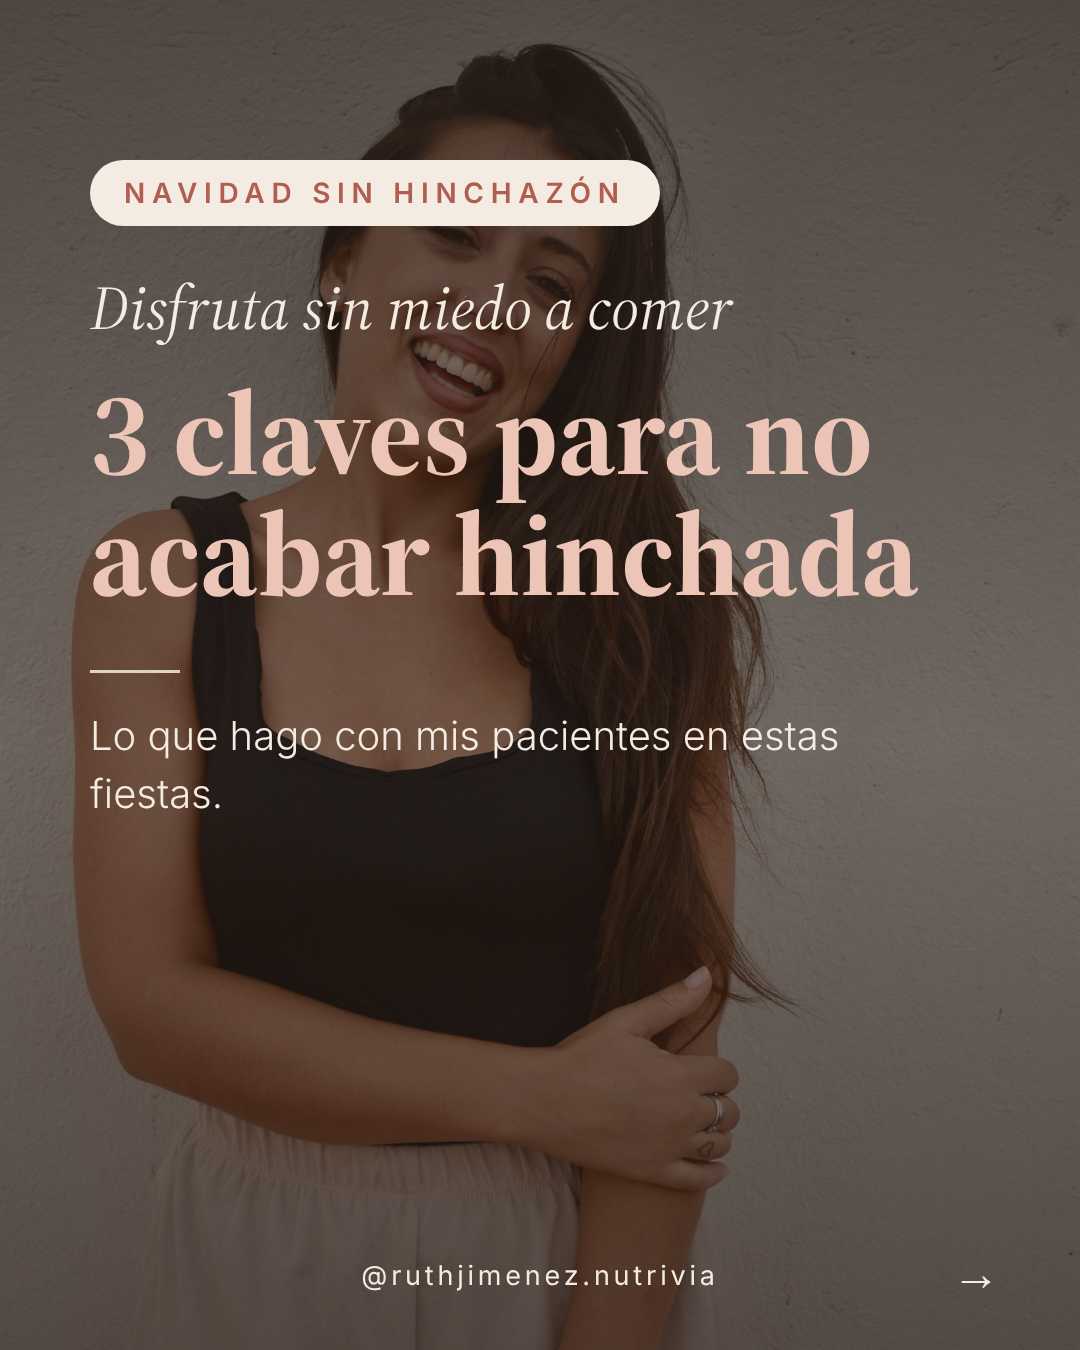
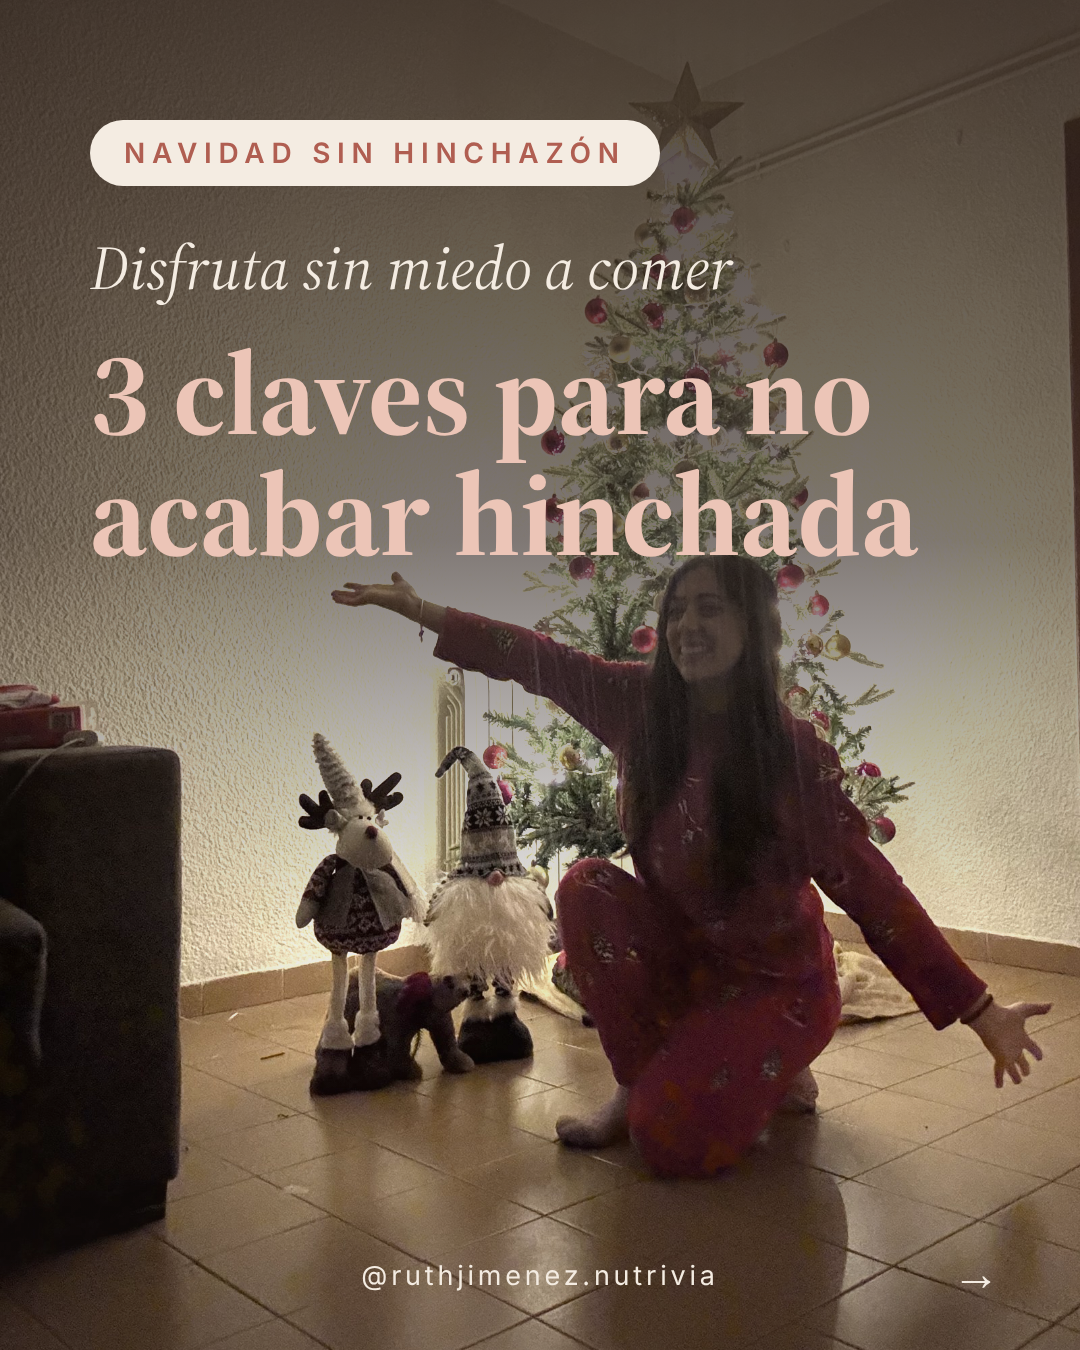
Portadas de los carruseles con fotos nuevas de Ruth (incluidas las de Navidad)
Claude-Session: https://claude.ai/code/session_01BJhanGQbqMstPra7Cbo7cp

diff --git a/diciembre/generar-carruseles.js b/diciembre/generar-carruseles.js
@@ -19,7 +19,7 @@ const carruseles = [
   {
     carpeta: '2026-11-27-lo-sano-que-te-hincha',
     slides: [
-      { tipo: 'portada', foto: 'ruth-sonrisa.jpg', pos: 'center 18%', pill: 'Hinchazón y SIBO', pre: 'Lo hacías por cuidarte…', titulo: 'Lo «sano» que te está hinchando', sub: 'No todo lo sano le sienta bien a tu tripa.' },
+      { tipo: 'portada', foto: 'IMG_5316.jpg', pos: 'center 20%', abajo: true, pill: 'Hinchazón y SIBO', pre: 'Lo hacías por cuidarte…', titulo: 'Lo «sano» que te está hinchando', sub: 'No todo lo sano le sienta bien a tu tripa.' },
       { tipo: 'tarjetas', kicker: '¿Te suena?', titulo: 'Batido verde, ensalada gigante, *kéfir…*', icono: '→', tarjetas: [
         ['Comes «sano» cada día', 'Verdura, fruta, fermentados… todo lo que se supone que hay que comer.'],
         ['Haces todo lo «correcto»', 'Has leído, te has informado y lo aplicas.'],
@@ -47,7 +47,7 @@ const carruseles = [
   {
     carpeta: '2026-12-01-sibo-5-senales',
     slides: [
-      { tipo: 'portada', foto: 'ruth-movil.jpg', pos: 'center 25%', pill: 'SIBO', pre: 'No es solo hinchazón', titulo: '5 señales que no debes normalizar', sub: '¿Cuántas te pasan a ti?' },
+      { tipo: 'portada', foto: 'IMG_6160.jpg', pos: 'center 20%', abajo: true, pill: 'SIBO', pre: 'No es solo hinchazón', titulo: '5 señales que no debes normalizar', sub: '¿Cuántas te pasan a ti?' },
       { tipo: 'tarjetas', kicker: 'Señales del SIBO', titulo: 'Lo que tu tripa *te está diciendo*', icono: 'num', tarjetas: [
         ['Te hinchas a lo largo del día', 'Por la mañana bien; por la tarde, el pantalón ya aprieta.'],
         ['Gases y eructos frecuentes', 'Aunque comas poco y despacio.'],
@@ -69,7 +69,7 @@ const carruseles = [
   {
     carpeta: '2026-12-05-3-claves-navidad',
     slides: [
-      { tipo: 'portada', foto: 'DSC_0454.jpg', pos: 'center 15%', pill: 'Navidad sin hinchazón', pre: 'Disfruta sin miedo a comer', titulo: '3 claves para no acabar hinchada', sub: 'Lo que hago con mis pacientes en estas fiestas.' },
+      { tipo: 'portada', foto: 'IMG_9678.jpg', pos: 'center 75%', arriba: true, pill: 'Navidad sin hinchazón', pre: 'Disfruta sin miedo a comer', titulo: '3 claves para no acabar hinchada', sub: '' },
       { tipo: 'tarjetas', kicker: 'Esto es para ti', titulo: '¿Ya piensas en *cómo vas a acabar*?', icono: '→', tarjetas: [
         ['Hinchada después de la cena', 'Desabrochándote el botón a escondidas.'],
         ['Con gases y sin poder moverte', 'Mientras los demás siguen en la sobremesa.'],
@@ -87,7 +87,7 @@ const carruseles = [
   {
     carpeta: '2026-12-08-menu-navidad',
     slides: [
-      { tipo: 'portada', foto: 'ruth-sobre-mi.jpg', pos: 'center 30%', pill: 'Navidad sin hinchazón', pre: 'Abres la carta y no sabes qué pedir', titulo: 'Qué pedir en el menú de Navidad', sub: 'Si te hinchas con facilidad.' },
+      { tipo: 'portada', foto: 'IMG_9790.jpg', pos: 'center 25%', abajo: true, pill: 'Navidad sin hinchazón', pre: 'Abres la carta y no sabes qué pedir', titulo: 'Qué pedir en el menú de Navidad', sub: 'Si te hinchas con facilidad.' },
       { tipo: 'tarjetas', kicker: 'Antes de empezar', titulo: 'No es una lista de *prohibidos*', icono: '→', tarjetas: [
         ['Es una guía para elegir', 'Con más tranquilidad y menos miedo.'],
         ['Cada persona tolera cosas distintas', 'Por eso un plan tiene que ser personal.'],
@@ -116,12 +116,16 @@ em { font-family: 'Source Serif 4', serif; font-style: italic; font-weight: 400;
 /* portada */
 .portada img { position: absolute; inset: 0; width: 100%; height: 100%; object-fit: cover; }
 .portada .velo { position: absolute; inset: 0; background: linear-gradient(180deg, rgba(42,30,24,.72) 0%, rgba(42,30,24,.55) 55%, rgba(42,30,24,.70) 100%); }
-.portada .txt { position: absolute; left: 90px; right: 90px; top: 160px; color: #f4ece2; }
+.portada .txt { position: absolute; left: 90px; right: 90px; top: 120px; color: #f4ece2; }
 .portada .pre { font-family: 'Source Serif 4', serif; font-style: italic; font-size: 62px; margin-top: 46px; line-height: 1.15; }
 .portada h1 { font-family: 'Source Serif 4', serif; font-weight: 700; font-size: 118px; line-height: 1.02; color: #ecc5b7; margin-top: 30px; }
 .portada .raya { width: 90px; height: 3px; background: #f4ece2; margin: 56px 0 34px; opacity: .85; }
 .portada .sub { font-family: Inter, sans-serif; font-weight: 300; font-size: 40px; line-height: 1.45; max-width: 760px; }
 .portada .handle, .portada .flecha { color: #f4ece2; }
+.portada .velo.arriba { background: linear-gradient(180deg, rgba(42,30,24,.82) 0%, rgba(42,30,24,.6) 40%, rgba(42,30,24,.08) 70%, rgba(42,30,24,.35) 100%); }
+.portada img.claro { filter: brightness(1.25); }
+.portada .txt.abajo { top: auto; bottom: 140px; }
+.portada .velo.abajo { background: linear-gradient(180deg, rgba(42,30,24,.15) 0%, rgba(42,30,24,.25) 35%, rgba(42,30,24,.80) 62%, rgba(42,30,24,.88) 100%); }
 
 /* contenido */
 .cont { background: #f3ede4; color: #5b4033; padding: 90px 100px 150px; display: flex; flex-direction: column; justify-content: center; }
@@ -158,8 +162,8 @@ em { font-family: 'Source Serif 4', serif; font-style: italic; font-weight: 400;
 
 function slideHTML(s) {
   if (s.tipo === 'portada') {
-    return `<div class="s portada"><img src="${foto(s.foto)}" style="object-position:${s.pos}"><div class="velo"></div>
-      <div class="txt"><span class="pill">${s.pill}</span><div class="pre">${s.pre}</div><h1>${s.titulo}</h1><div class="raya"></div><div class="sub">${s.sub}</div></div>
+    return `<div class="s portada"><img class="${s.arriba ? 'claro' : ''}" src="${foto(s.foto)}" style="object-position:${s.pos}"><div class="velo${s.abajo ? ' abajo' : ''}${s.arriba ? ' arriba' : ''}"></div>
+      <div class="txt${s.abajo ? ' abajo' : ''}"><span class="pill">${s.pill}</span><div class="pre">${s.pre}</div><h1>${s.titulo}</h1>${s.sub ? `<div class="raya"></div><div class="sub">${s.sub}</div>` : ''}</div>
       <div class="handle">@ruthjimenez.nutrivia</div><div class="flecha">→</div></div>`;
   }
   if (s.tipo === 'tarjetas') {
